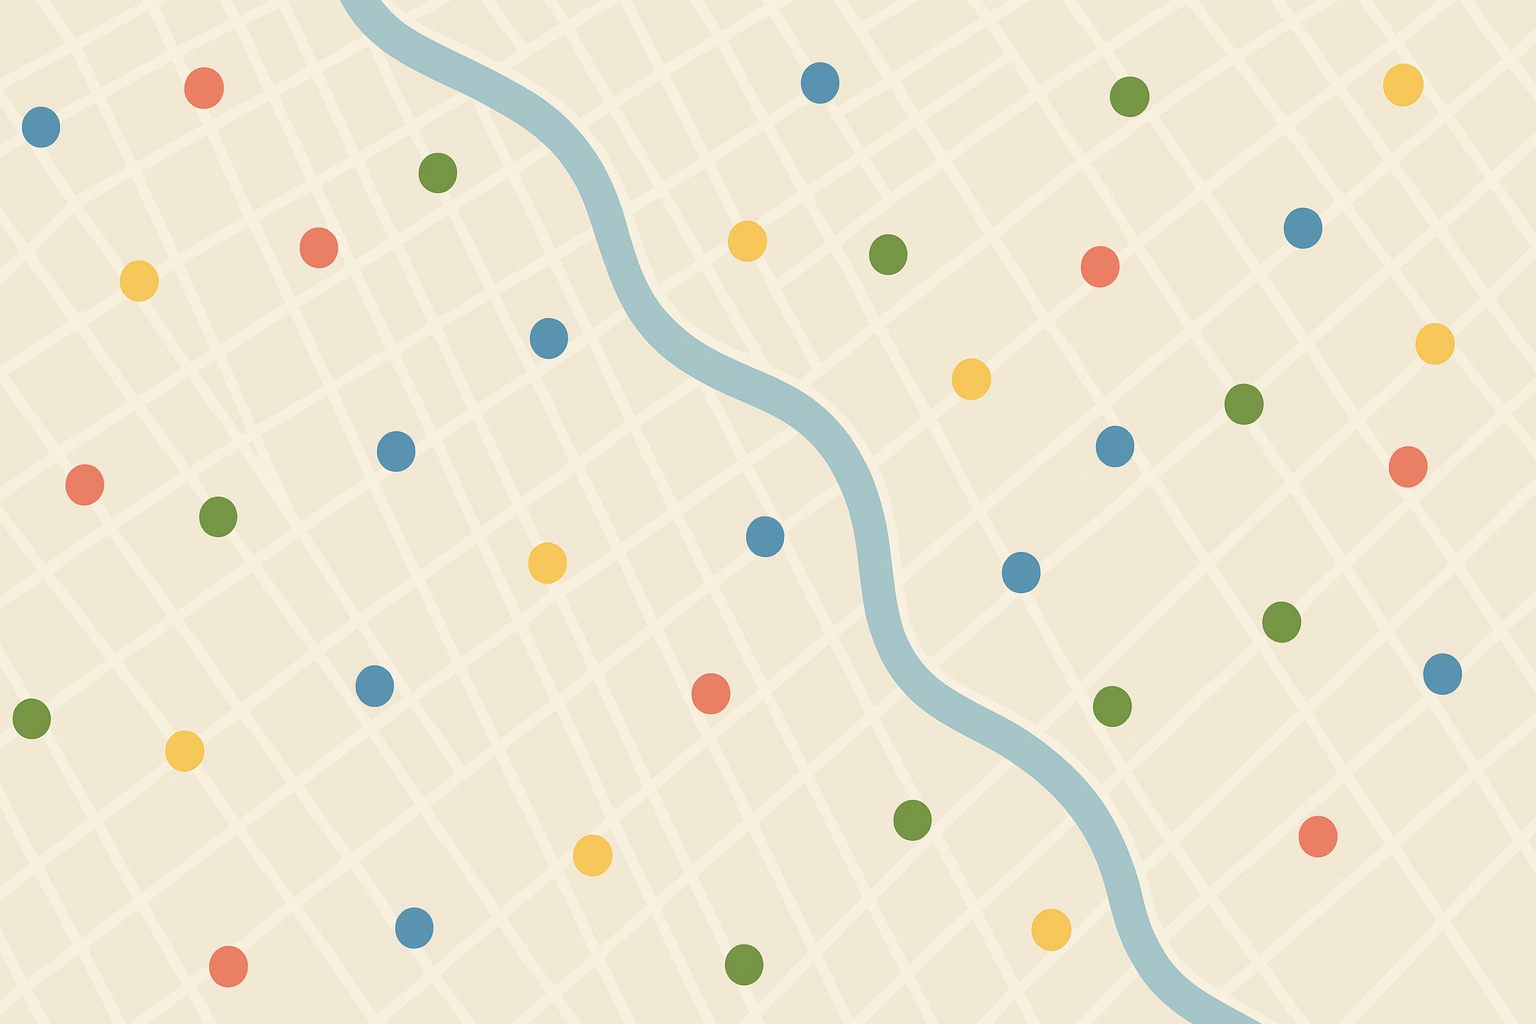
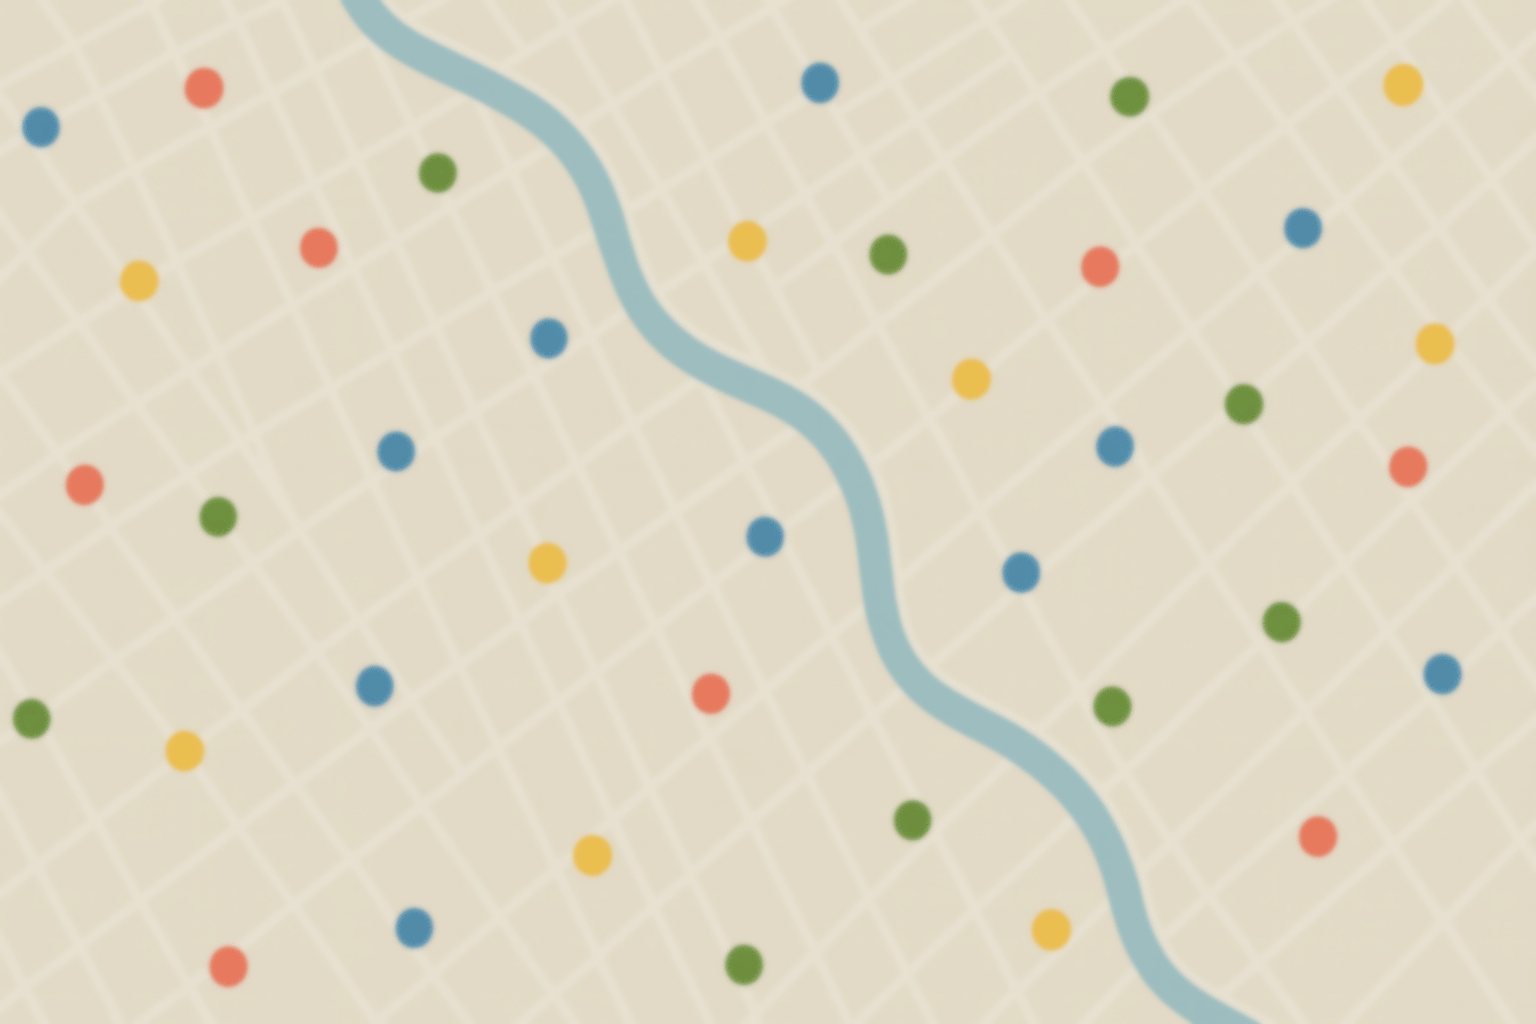
verColeccion con Mapa

diff --git a/metamapaWeb/src/main/resources/templates/verColeccion/verColeccion.html b/metamapaWeb/src/main/resources/templates/verColeccion/verColeccion.html
@@ -1,5 +1,6 @@
-<!doctype html>
+<!DOCTYPE html>
 <html lang="es">
+<html xmlns:th="http://www.thymeleaf.org">
 <head>
     <meta charset="utf-8">
     <meta name="viewport" content="width=device-width, initial-scale=1">
@@ -7,13 +8,18 @@
 
     <link href="https://fonts.googleapis.com/css2?family=Montserrat:wght@400;600;800&display=swap" rel="stylesheet">
 
+    <link rel="stylesheet" href="https://unpkg.com/leaflet@1.9.4/dist/leaflet.css"
+          integrity="sha256-p4NxAoJBhIIN+hmNHrzRCf9tD/miZyoHS5obTRR9BMY="
+          crossorigin=""/>
     <link rel="stylesheet" href="../css/footer.css">
     <link rel="stylesheet" href="../css/navbar.css">
     <link rel="stylesheet" href="styles.css">
     <link rel="stylesheet" href="https://cdnjs.cloudflare.com/ajax/libs/font-awesome/6.5.0/css/all.min.css">
 </head>
 <body>
+
 <header class="site-header" id="top">
+    </header>
     <div class="container nav">
         <a class="brand" href="#top">
             <img src="../../static/img/logoNAVBAR.png" alt="Logo MetaMapa" class="brand-logo">
@@ -35,11 +41,37 @@
     </div>
 </header>
 
+
+
+
 <main class="map-layout-container">
+<div class="map-panel" id="mapa"></div>
 
-    <div class="map-panel" id="mapa">
-    </div>
 
+<script src="https://unpkg.com/leaflet@1.9.4/dist/leaflet.js"
+        integrity="sha256-20nQCchB9co0qIjJZRGuk2/Z9VM+kNiyxNV1lvTlZBo="
+        crossorigin=""></script>
+
+<script>
+
+
+    let map = L.map('mapa', {
+        maxZoom: 19 // Le decís al MAPA que no deje zoomear más de 19
+    }).setView([-34.722222,-58.363611], 15);
+
+    // 2. En las opciones de la capa
+    L.tileLayer('https://{s}.tile.openstreetmap.org/{z}/{x}/{y}.png', {
+        attribution: '&copy; <a href="https://www.openstreetmap.org/copyright">OpenStreetMap</a> contributors',
+        maxZoom: 19 // Le decís a la CAPA que su máximo es 19
+    }).addTo(map);
+
+    window.addEventListener('resize', function() {
+        // Le dice al mapa que revise su tamaño y se ajuste
+        map.invalidateSize();
+    });
+
+</script>
+    <script src="script.js" defer></script>
     <aside class="sidebar-panel">
         <header class="sidebar-header">
             COLECCIÓN
@@ -60,6 +92,9 @@
 
 </main>
 
+
+
+
 <footer class="site-footer">
     <div class="container footer-grid">
         <a href="mailto:metamapa@gmail.com"><i class="fa-solid fa-envelope"></i> metamapa@gmail.com</a>
@@ -69,5 +104,6 @@
 </footer>
 
 <script src="script.js" defer></script>
+
 </body>
 </html>

diff --git a/metamapaWeb/src/main/resources/templates/verColeccion/styles.css b/metamapaWeb/src/main/resources/templates/verColeccion/styles.css
@@ -23,7 +23,7 @@ body{
     font-family:Montserrat,system-ui,Segoe UI,Roboto,Arial,sans-serif;
     color:var(--text);
     background:#fff;
-
+    background-color: #ffffff;
     /* Fondo de mapa con puntos (para la página de Reportar) */
     /* Lo movemos a una clase específica para que no aplique a todas las págs */
     display: flex;
@@ -283,5 +283,11 @@ main.map-layout-container {
     .sidebar-panel {
         flex: none; /* Resetea flex */
         width: 100%;
+    }
+
+    #mapa {
+        height: 600px; /* ¡Dale la altura que necesites! */
+        width: 100%;
+        background-color: #ffffff;
     }
 }
